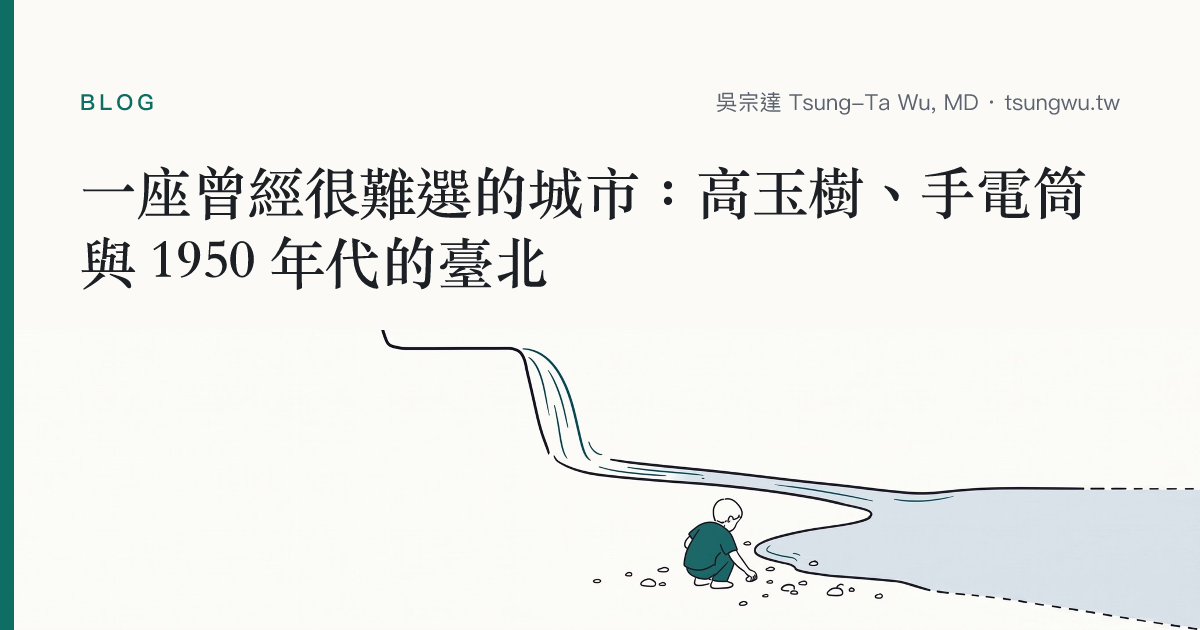
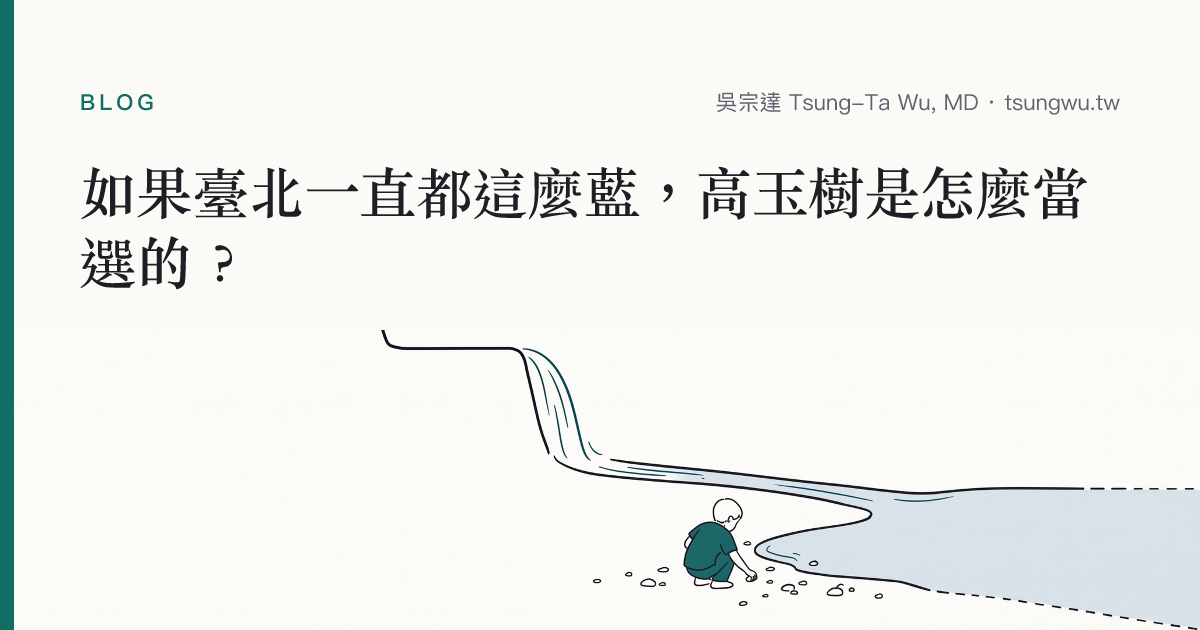
Blog: title as a question (如果臺北一直都這麼藍，高玉樹是怎麼當選的？)

Changed region(s): [[0.0617, 0.2413, 0.555, 0.4825], [0.7092, 0.2413, 0.925, 0.3619], [0.555, 0.3016, 0.5858, 0.3317]]

diff --git a/personal-site/zh/blog/kao-yu-shu-taipei/index.html b/personal-site/zh/blog/kao-yu-shu-taipei/index.html
@@ -3,15 +3,15 @@
   <head>
     <meta charset="UTF-8" />
     <meta name="viewport" content="width=device-width, initial-scale=1.0" />
-    <title>一座曾經很難選的城市：高玉樹、手電筒與 1950 年代的臺北 · 吳宗達 Tsung-Ta Wu, MD</title>
-    <meta name="description" content="1954 年，無黨籍的高玉樹擊敗國民黨的王民寧當選臺北市長；1964 年，他靠一千名學生和一千支手電筒守住票箱再次當選。然後，臺北市長就不能選了。回頭看，臺北並不是天生的國民黨優勢區。" />
+    <title>如果臺北一直都這麼藍，高玉樹是怎麼當選的？ · 吳宗達 Tsung-Ta Wu, MD</title>
+    <meta name="description" content="1954 年，無黨籍的高玉樹擊敗國民黨的王民寧當選臺北市長；1964 年，他靠一千支手電筒守住票箱再次當選。然後臺北市長就不能選了。臺北並不是天生就藍。" />
     <link rel="canonical" href="https://tsungwu.tw/zh/blog/kao-yu-shu-taipei/" />
     <link rel="alternate" hreflang="zh-Hant" href="https://tsungwu.tw/zh/blog/kao-yu-shu-taipei/" />
     <link rel="alternate" hreflang="x-default" href="https://tsungwu.tw/zh/blog/kao-yu-shu-taipei/" />
     <meta property="og:type" content="article" />
     <meta property="og:site_name" content="Tsung-Ta Wu, MD" />
-    <meta property="og:title" content="一座曾經很難選的城市：高玉樹、手電筒與 1950 年代的臺北 · 吳宗達 Tsung-Ta Wu, MD" />
-    <meta property="og:description" content="1954 年，無黨籍的高玉樹擊敗國民黨的王民寧當選臺北市長；1964 年，他靠一千名學生和一千支手電筒守住票箱再次當選。然後，臺北市長就不能選了。回頭看，臺北並不是天生的國民黨優勢區。" />
+    <meta property="og:title" content="如果臺北一直都這麼藍，高玉樹是怎麼當選的？ · 吳宗達 Tsung-Ta Wu, MD" />
+    <meta property="og:description" content="1954 年，無黨籍的高玉樹擊敗國民黨的王民寧當選臺北市長；1964 年，他靠一千支手電筒守住票箱再次當選。然後臺北市長就不能選了。臺北並不是天生就藍。" />
     <meta property="og:url" content="https://tsungwu.tw/zh/blog/kao-yu-shu-taipei/" />
     <meta property="og:locale" content="zh_TW" />
     <meta name="twitter:card" content="summary_large_image" />
@@ -22,7 +22,7 @@
     <link rel="icon" href="/favicon-32.png" sizes="32x32" type="image/png" />
     <link rel="apple-touch-icon" href="/apple-touch-icon.png" />
     <link rel="stylesheet" href="/styles.css?v=892c9673" />
-    <script type="application/ld+json">{"@context":"https://schema.org","@graph":[{"@type":"WebSite","@id":"https://tsungwu.tw/#website","name":"Tsung-Ta Wu, MD","alternateName":"吳宗達 Tsung-Ta Wu, MD","url":"https://tsungwu.tw/","inLanguage":["en","zh-Hant"],"author":{"@id":"https://tsungwu.tw/#person"},"publisher":{"@id":"https://tsungwu.tw/#person"}},{"@type":"Person","@id":"https://tsungwu.tw/#person","name":"Tsung-Ta Wu","alternateName":"吳宗達","honorificSuffix":"MD","jobTitle":["Attending anesthesiologist","Intensivist","Course director for undergraduate medical students"],"worksFor":{"@id":"https://tsungwu.tw/#affiliation"},"affiliation":{"@id":"https://tsungwu.tw/#affiliation"},"url":"https://tsungwu.tw/en/about/","sameAs":["https://scholar.google.com/citations?user=6eNYe2QAAAAJ"],"knowsAbout":[{"@type":"Thing","name":"hemodynamics","sameAs":"https://www.wikidata.org/wiki/Q1642137"},{"@type":"Thing","name":"anesthesiology","sameAs":"https://www.wikidata.org/wiki/Q615057"},{"@type":"Thing","name":"cardiac output","sameAs":"https://www.wikidata.org/wiki/Q596579"},{"@type":"Thing","name":"hypotension","sameAs":"https://www.wikidata.org/wiki/Q275419"},{"@type":"Thing","name":"medical education","sameAs":"https://www.wikidata.org/wiki/Q126945"}]},{"@type":"Hospital","@id":"https://tsungwu.tw/#affiliation","name":"National Taiwan University Hospital Hsinchu Branch","alternateName":"新竹台大分院","url":"https://www.hch.gov.tw/","sameAs":"https://www.wikidata.org/wiki/Q123584454","parentOrganization":{"@type":"Hospital","name":"National Taiwan University Hospital","sameAs":"https://www.wikidata.org/wiki/Q1418766"}},{"@id":"https://tsungwu.tw/zh/blog/kao-yu-shu-taipei/","url":"https://tsungwu.tw/zh/blog/kao-yu-shu-taipei/","name":"一座曾經很難選的城市：高玉樹、手電筒與 1950 年代的臺北","description":"1954 年，無黨籍的高玉樹擊敗國民黨的王民寧當選臺北市長；1964 年，他靠一千名學生和一千支手電筒守住票箱再次當選。然後，臺北市長就不能選了。回頭看，臺北並不是天生的國民黨優勢區。","inLanguage":"zh-Hant","isPartOf":{"@id":"https://tsungwu.tw/#website"},"@type":"BlogPosting","headline":"一座曾經很難選的城市：高玉樹、手電筒與 1950 年代的臺北","author":{"@id":"https://tsungwu.tw/#person"},"publisher":{"@id":"https://tsungwu.tw/#person"},"mainEntityOfPage":"https://tsungwu.tw/zh/blog/kao-yu-shu-taipei/","datePublished":"2026-09-13","dateModified":"2026-09-13","image":"https://tsungwu.tw/img/kao-cover.jpg","keywords":["臺灣史","臺北"]},{"@type":"BreadcrumbList","itemListElement":[{"@type":"ListItem","position":1,"name":"首頁","item":"https://tsungwu.tw/zh/"},{"@type":"ListItem","position":2,"name":"Blog","item":"https://tsungwu.tw/zh/blog/"},{"@type":"ListItem","position":3,"name":"一座曾經很難選的城市：高玉樹、手電筒與 1950 年代的臺北","item":"https://tsungwu.tw/zh/blog/kao-yu-shu-taipei/"}]}]}</script>
+    <script type="application/ld+json">{"@context":"https://schema.org","@graph":[{"@type":"WebSite","@id":"https://tsungwu.tw/#website","name":"Tsung-Ta Wu, MD","alternateName":"吳宗達 Tsung-Ta Wu, MD","url":"https://tsungwu.tw/","inLanguage":["en","zh-Hant"],"author":{"@id":"https://tsungwu.tw/#person"},"publisher":{"@id":"https://tsungwu.tw/#person"}},{"@type":"Person","@id":"https://tsungwu.tw/#person","name":"Tsung-Ta Wu","alternateName":"吳宗達","honorificSuffix":"MD","jobTitle":["Attending anesthesiologist","Intensivist","Course director for undergraduate medical students"],"worksFor":{"@id":"https://tsungwu.tw/#affiliation"},"affiliation":{"@id":"https://tsungwu.tw/#affiliation"},"url":"https://tsungwu.tw/en/about/","sameAs":["https://scholar.google.com/citations?user=6eNYe2QAAAAJ"],"knowsAbout":[{"@type":"Thing","name":"hemodynamics","sameAs":"https://www.wikidata.org/wiki/Q1642137"},{"@type":"Thing","name":"anesthesiology","sameAs":"https://www.wikidata.org/wiki/Q615057"},{"@type":"Thing","name":"cardiac output","sameAs":"https://www.wikidata.org/wiki/Q596579"},{"@type":"Thing","name":"hypotension","sameAs":"https://www.wikidata.org/wiki/Q275419"},{"@type":"Thing","name":"medical education","sameAs":"https://www.wikidata.org/wiki/Q126945"}]},{"@type":"Hospital","@id":"https://tsungwu.tw/#affiliation","name":"National Taiwan University Hospital Hsinchu Branch","alternateName":"新竹台大分院","url":"https://www.hch.gov.tw/","sameAs":"https://www.wikidata.org/wiki/Q123584454","parentOrganization":{"@type":"Hospital","name":"National Taiwan University Hospital","sameAs":"https://www.wikidata.org/wiki/Q1418766"}},{"@id":"https://tsungwu.tw/zh/blog/kao-yu-shu-taipei/","url":"https://tsungwu.tw/zh/blog/kao-yu-shu-taipei/","name":"如果臺北一直都這麼藍，高玉樹是怎麼當選的？","description":"1954 年，無黨籍的高玉樹擊敗國民黨的王民寧當選臺北市長；1964 年，他靠一千支手電筒守住票箱再次當選。然後臺北市長就不能選了。臺北並不是天生就藍。","inLanguage":"zh-Hant","isPartOf":{"@id":"https://tsungwu.tw/#website"},"@type":"BlogPosting","headline":"如果臺北一直都這麼藍，高玉樹是怎麼當選的？","author":{"@id":"https://tsungwu.tw/#person"},"publisher":{"@id":"https://tsungwu.tw/#person"},"mainEntityOfPage":"https://tsungwu.tw/zh/blog/kao-yu-shu-taipei/","datePublished":"2026-09-13","dateModified":"2026-09-13","image":"https://tsungwu.tw/img/kao-cover.jpg","keywords":["臺灣史","臺北"]},{"@type":"BreadcrumbList","itemListElement":[{"@type":"ListItem","position":1,"name":"首頁","item":"https://tsungwu.tw/zh/"},{"@type":"ListItem","position":2,"name":"Blog","item":"https://tsungwu.tw/zh/blog/"},{"@type":"ListItem","position":3,"name":"如果臺北一直都這麼藍，高玉樹是怎麼當選的？","item":"https://tsungwu.tw/zh/blog/kao-yu-shu-taipei/"}]}]}</script>
     <meta property="og:image" content="https://tsungwu.tw/img/kao-cover.jpg" />
     <meta property="og:image:width" content="1200" />
     <meta property="og:image:height" content="800" />
@@ -45,7 +45,7 @@
     <main class="wrap">
       <p class="kicker"><span class="byline">吳宗達</span> · 2026年9月13日</p>
       <article>
-<h1>一座曾經很難選的城市：高玉樹、手電筒與 1950 年代的臺北</h1>
+<h1>如果臺北一直都這麼藍，高玉樹是怎麼當選的？</h1>
 <p>1945 年戰爭結束後不久，一名穿著軍服的男子走進臺大醫院眼科。</p>
 <p>他叫<a href="https://zh.wikipedia.org/wiki/%E7%8E%8B%E6%B0%91%E5%AF%A7">王民寧</a>。當時是臺灣省警備總司令部副官處處長，眼睛得了結膜炎，到臺大附屬醫院求診。</p>
 <p>問題是，他不想排隊。</p>

diff --git a/personal-site/zh/blog/index.html b/personal-site/zh/blog/index.html
@@ -49,7 +49,7 @@
 
       </article>
       <ul class="posts">
-<li class="post-row"><a class="post-title" href="/zh/blog/kao-yu-shu-taipei/">一座曾經很難選的城市：高玉樹、手電筒與 1950 年代的臺北</a><div class="post-body"><div class="post-meta"><span class="date">2026年9月13日</span><p>1954 年，無黨籍的高玉樹擊敗國民黨的王民寧當選臺北市長；1964 年，他靠一千名學生和一千支手電筒守住票箱再次當選。然後，臺北市長就不能選了。回頭看，臺北並不是天生的國民黨優勢區。</p></div><a class="post-thumb" href="/zh/blog/kao-yu-shu-taipei/" aria-hidden="true" tabindex="-1"><img src="/img/kao-cover.jpg" alt="" loading="lazy"></a></div></li>
+<li class="post-row"><a class="post-title" href="/zh/blog/kao-yu-shu-taipei/">如果臺北一直都這麼藍，高玉樹是怎麼當選的？</a><div class="post-body"><div class="post-meta"><span class="date">2026年9月13日</span><p>1954 年，無黨籍的高玉樹擊敗國民黨的王民寧當選臺北市長；1964 年，他靠一千支手電筒守住票箱再次當選。然後臺北市長就不能選了。臺北並不是天生就藍。</p></div><a class="post-thumb" href="/zh/blog/kao-yu-shu-taipei/" aria-hidden="true" tabindex="-1"><img src="/img/kao-cover.jpg" alt="" loading="lazy"></a></div></li>
 <li class="post-row"><a class="post-title" href="/zh/blog/2026-09-12-apex-workshop/">一天之內把網站重新做出來：APEX 工作坊課後心得</a><div class="post-body"><div class="post-meta"><span class="date">2026年9月12日</span><p>2026 年 9 月 12 日參加新思惟《AI 時代的個人品牌工作坊》（APEX）。網路個人品牌的核心來自專業的累積而不是流量；寫文章，其實是把自己的思考記錄下來。</p></div></div></li>
 <li class="post-row"><a class="post-title" href="/zh/blog/sedation-and-anesthesia-safety/">鎮靜與麻醉安全</a><div class="post-body"><div class="post-meta"><span class="date">2019年6月4日</span><p>什麼是鎮靜、什麼是麻醉？從輕度鎮靜到全身麻醉是同一條光譜；愈深，對呼吸循環的影響愈大。這也是為什麼手術與鎮靜麻醉應由不同的人負責。</p></div><a class="post-thumb" href="/zh/blog/sedation-and-anesthesia-safety/" aria-hidden="true" tabindex="-1"><img src="/img/sedation-cover.svg" alt="" loading="lazy"></a></div></li>
       </ul>

diff --git a/personal-site/zh/index.html b/personal-site/zh/index.html
@@ -55,7 +55,7 @@
       </section>
       <section class="next">
 <p><span>從第一篇開始讀</span> → <a href="/zh/concepts/mean-systemic-filling-pressure/">平均系統充盈壓（Pmsf）</a></p>
-<p><span>最近更新</span> · 2026年9月13日 · <a href="/zh/blog/kao-yu-shu-taipei/">一座曾經很難選的城市：高玉樹、手電筒與 1950 年代的臺北</a></p>
+<p><span>最近更新</span> · 2026年9月13日 · <a href="/zh/blog/kao-yu-shu-taipei/">如果臺北一直都這麼藍，高玉樹是怎麼當選的？</a></p>
       </section>
 
     </main>

diff --git a/content/zh/blog/kao-yu-shu-taipei.md b/content/zh/blog/kao-yu-shu-taipei.md
@@ -1,12 +1,12 @@
 ---
-title: 一座曾經很難選的城市：高玉樹、手電筒與 1950 年代的臺北
-description: 1954 年，無黨籍的高玉樹擊敗國民黨的王民寧當選臺北市長；1964 年，他靠一千名學生和一千支手電筒守住票箱再次當選。然後，臺北市長就不能選了。回頭看，臺北並不是天生的國民黨優勢區。
+title: 如果臺北一直都這麼藍，高玉樹是怎麼當選的？
+description: 1954 年，無黨籍的高玉樹擊敗國民黨的王民寧當選臺北市長；1964 年，他靠一千支手電筒守住票箱再次當選。然後臺北市長就不能選了。臺北並不是天生就藍。
 tags: 臺灣史, 臺北
 date: 2026-09-13
 cover: /img/kao-cover.jpg
 ---
 
-# 一座曾經很難選的城市：高玉樹、手電筒與 1950 年代的臺北
+# 如果臺北一直都這麼藍，高玉樹是怎麼當選的？
 
 1945 年戰爭結束後不久，一名穿著軍服的男子走進臺大醫院眼科。
 
